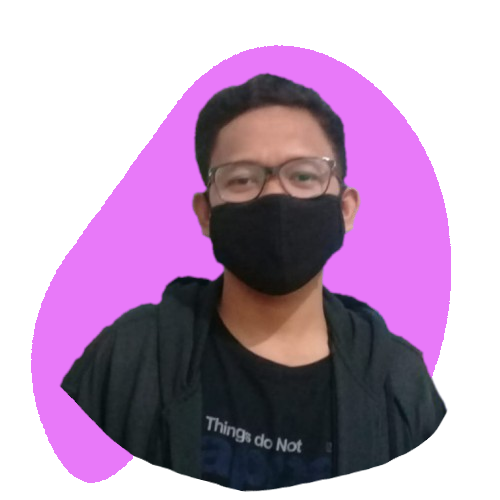
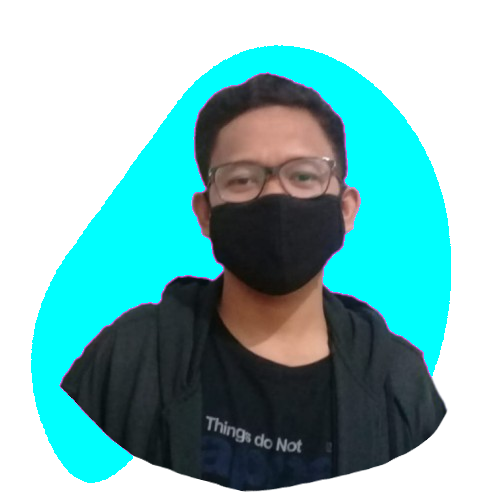
Update colorschema to cyan

Changed region(s): [[0.06, 0.09, 0.9, 0.99]]

diff --git a/_layouts/landing_page.html b/_layouts/landing_page.html
@@ -38,12 +38,12 @@
             <nav class="mx-auto flex max-w-7xl items-center justify-between p-4 lg:px-8" aria-label="Global">
                 <div class="flex lg:flex-1">
                     <a href="#" class="px-4">
-                        <span class="font-bold text-fuchsia-800">{{ page.my_name }}</span>
+                        <span class="font-bold text-cyan-800">{{ page.my_name }}</span>
                     </a>
                 </div>
 
                 <div class="flex lg:hidden">
-                    <button id="hamburger" type="button" class="inline-flex items-center justify-center rounded-md px-4 text-fuchsia-400">
+                    <button id="hamburger" type="button" class="inline-flex items-center justify-center rounded-md px-4 text-cyan-400">
                         <svg class="size-6" fill="none" viewBox="0 0 24 24" stroke-width="1.5" stroke="currentColor" aria-hidden="true">
                             <path stroke-linecap="round" stroke-linejoin="round" d="M3.75 6.75h16.5M3.75 12h16.5m-16.5 5.25h16.5" />
                         </svg>
@@ -51,9 +51,9 @@
                 </div>
 
                 <div class="hidden lg:flex lg:gap-x-12">
-                    <a href="#home" class="text-sm font-semibold text-fuchsia-800">Home</a>
-                    <a href="#about" class="text-sm font-semibold text-fuchsia-800">About</a>
-                    <a href="#posts" class="text-sm font-semibold text-fuchsia-800">My Posts</a>
+                    <a href="#home" class="text-sm font-semibold text-cyan-800">Home</a>
+                    <a href="#about" class="text-sm font-semibold text-cyan-800">About</a>
+                    <a href="#posts" class="text-sm font-semibold text-cyan-800">My Posts</a>
                 </div>
             </nav>
     
@@ -62,10 +62,10 @@
                 <div class="absolute inset-y-0 w-full overflow-y-auto p-4 sm:ring-1 sm:ring-gray-900/10 mx-auto justify-between items-center">
                     <div class="flex items-center justify-between">
                         <a href="#" class="px-4">
-                            <span class="font-bold text-fuchsia-800">{{ page.my_name }}</span>
+                            <span class="font-bold text-cyan-800">{{ page.my_name }}</span>
                         </a>
 
-                        <button id="close-menu" type="button" class="rounded-md px-4 text-fuchsia-400">
+                        <button id="close-menu" type="button" class="rounded-md px-4 text-cyan-400">
                             <svg class="size-6" fill="none" viewBox="0 0 24 24" stroke-width="1.5" stroke="currentColor" aria-hidden="true">
                                 <path stroke-linecap="round" stroke-linejoin="round" d="M6 18 18 6M6 6l12 12" />
                             </svg>
@@ -73,9 +73,9 @@
                     </div>
 
                     <div class="mt-6 text-center">
-                        <a href="#home" class="block px-3 py-2 text-base font-semibold text-fuchsia-800 hover:bg-fuchsia-400">Home</a>
-                        <a href="#about" class="block px-3 py-2 text-base font-semibold text-fuchsia-800 hover:bg-fuchsia-400">About</a>
-                        <a href="#posts" class="block px-3 py-2 text-base font-semibold text-fuchsia-800 hover:bg-fuchsia-400">My Posts</a>
+                        <a href="#home" class="block px-3 py-2 text-base font-semibold text-cyan-800 hover:bg-cyan-400">Home</a>
+                        <a href="#about" class="block px-3 py-2 text-base font-semibold text-cyan-800 hover:bg-cyan-400">About</a>
+                        <a href="#posts" class="block px-3 py-2 text-base font-semibold text-cyan-800 hover:bg-cyan-400">My Posts</a>
                     </div>
                 </div>
             </div>
@@ -87,16 +87,16 @@
                 <div class="container mx-auto px-8">
                     <div class="flex flex-wrap">
                         <div class="w-full md:w-1/2 lg:w-auto self-center px-4">
-                            <h1 class="text-base font-semibold text-fuchsia-400">Hi There!, I'm <span class="block font-bold mt-1 text-2xl md:text-4xl lg:text-4xl text-fuchsia-800">{{ page.my_name }}</span></h1>
+                            <h1 class="text-base font-semibold text-cyan-400">Hi There!, I'm <span class="block font-bold mt-1 text-2xl md:text-4xl lg:text-4xl text-cyan-800">{{ page.my_name }}</span></h1>
                             
-                            <h2 class="font-medium text-fuchsia-600 text-lg">Software Engineering</h2>
+                            <h2 class="font-medium text-cyan-600 text-lg">Software Engineering</h2>
                             
-                            <p class="font-medium text-fuchsia-400 my-5">
+                            <p class="font-medium text-cyan-400 my-5">
                                 Programming is the art of telling another human being what one wants the computer to do.
-                                <span class="block text-fuchsia-600">- Donald Ervin Knuth</span>
+                                <span class="block text-cyan-600">- Donald Ervin Knuth</span>
                             </p>
 
-                            <a class="text-base font-semibold text-white bg-fuchsia-400 py-3 px-8 rounded-full hover:shadow-lg hover:opacity-80 transition-duration-300 ease-in-out" href="#footer">
+                            <a class="text-base font-semibold text-white bg-cyan-400 py-3 px-8 rounded-full hover:shadow-lg hover:opacity-80 transition-duration-300 ease-in-out" href="#footer">
                                 Let's Talk
                             </a>
                         </div>
@@ -114,55 +114,55 @@
                 <div class="container mx-auto px-8">
                     <div class="flex flex-wrap">
                         <div class="w-full px-4 mb-2">
-                            <h4 class="font-bold text-fuchsia-400 text-lg">About Me</h4>
-                            <h2 class="font-bold text-fuchsia-800 my-2 text-2xl md:text-3xl lg:text-3xl">Mengenal saya lebih dekat</h2>
+                            <h4 class="font-bold text-cyan-400 text-lg">About Me</h4>
+                            <h2 class="font-bold text-cyan-800 my-2 text-2xl md:text-3xl lg:text-3xl">Mengenal saya lebih dekat</h2>
                             <p class="font-medium text-base text-slate-600">Hi everyone! Saya
-                                <span class="text-fuchsia-600 font-bold">{{ page.my_name }}</span>, seorang yang gemar 
-                                <span class="text-fuchsia-600 font-bold">Programming</span> yang berdomisili di 
-                                <span class="text-fuchsia-600 font-bold">Kota Tangerang</span>. Saya adalah salah satu lulusan 
-                                <span class="text-fuchsia-600 font-bold">S1 - Teknik Informatika</span> dengan konsentrasi 
-                                <span class="text-fuchsia-600 font-bold">Software Engineering</span> dari 
-                                <span class="text-fuchsia-600 font-bold">Universitas Raharja</span>. Saya mulai menyukai 
-                                <span class="text-fuchsia-600 font-bold">Programming</span> dari SMK yang berawal dari rasa penasaran dengan sistem operasi 
-                                <span class="text-fuchsia-600 font-bold">Linux dan Open Source</span>, yang mana kita dapat mengubah sourcenya sesuka hati. Sejak itulah saya mulai menyukai semua hal yang berkaitan dengan 
-                                <span class="text-fuchsia-600 font-bold">Source Code</span> dan mulai mempelajari 
-                                <span class="text-fuchsia-600 font-bold">Programming</span>.</p>
+                                <span class="text-cyan-600 font-bold">{{ page.my_name }}</span>, seorang yang gemar 
+                                <span class="text-cyan-600 font-bold">Programming</span> yang berdomisili di 
+                                <span class="text-cyan-600 font-bold">Kota Tangerang</span>. Saya adalah salah satu lulusan 
+                                <span class="text-cyan-600 font-bold">S1 - Teknik Informatika</span> dengan konsentrasi 
+                                <span class="text-cyan-600 font-bold">Software Engineering</span> dari 
+                                <span class="text-cyan-600 font-bold">Universitas Raharja</span>. Saya mulai menyukai 
+                                <span class="text-cyan-600 font-bold">Programming</span> dari SMK yang berawal dari rasa penasaran dengan sistem operasi 
+                                <span class="text-cyan-600 font-bold">Linux dan Open Source</span>, yang mana kita dapat mengubah sourcenya sesuka hati. Sejak itulah saya mulai menyukai semua hal yang berkaitan dengan 
+                                <span class="text-cyan-600 font-bold">Source Code</span> dan mulai mempelajari 
+                                <span class="text-cyan-600 font-bold">Programming</span>.</p>
                         </div> 
   
                         <div class="w-full px-4">
-                            <h2 class="font-bold text-fuchsia-800 my-2 text-2xl md:text-3xl lg:text-3xl">Apa yang saya pelajari?</h2>
+                            <h2 class="font-bold text-cyan-800 my-2 text-2xl md:text-3xl lg:text-3xl">Apa yang saya pelajari?</h2>
                             <p class="font-medium text-base text-slate-600">Perjalanan 
-                            <span class="text-fuchsia-600 font-bold">Programming</span> saya dimulai dari mempelajari 
-                            <span class="text-fuchsia-600 font-bold">Linux, Open Source, dan Shellscript</span> karena linux dibangun salah satunya dengan shell dan untuk keperluan ricing linux jadi saya mempelajarinya. Lalu bahasa pemrograman yang saya pelajari adalah  
-                            <span class="text-fuchsia-600 font-bold">C++</span>, kemudian saya menemukan 
-                            <span class="text-fuchsia-600 font-bold">Python</span> yang katanya sourcenya lebih simple, sederhana, mudah dibaca dan dipahami. Lanjut saya belajar 
-                            <span class="text-fuchsia-600 font-bold">Object Oriented Programming, Library, dan Framework</span> seperti 
-                            <span class="text-fuchsia-600 font-bold">Django</span> sebagai framework untuk web backend dan 
-                            <span class="text-fuchsia-600 font-bold">Kivy</span> yaitu library untuk membuat aplikasi desktop berbasis GUI. Saya juga mempelajari 
-                            <span class="text-fuchsia-600 font-bold">Version Control System</span> yaitu 
-                            <span class="text-fuchsia-600 font-bold">Git dan Github</span> untuk mengelola source, selain itu saya juga mempelajari 
-                            <span class="text-fuchsia-600 font-bold">Virtualization</span> seperti 
-                            <span class="text-fuchsia-600 font-bold">Docker</span> dengan memanfaatkan container untuk keperluan open source. Sampai dimana saya lebih fokus untuk mempelajari terkait
-                            <span class="text-fuchsia-600 font-bold">Web Development</span> seperti 
-                            <span class="text-fuchsia-600 font-bold">HTML, CSS, Javascript dan PHP</span>. Setelah itu saya mempelajari beberapa framework dan database management system seperti 
-                            <span class="text-fuchsia-600 font-bold">NodeJS, Laravel, VueJS, Mysql, MariaDB, Bootstrap dan TailwindCSS</span>. Saat dikampus saya juga mempelajari 
-                            <span class="text-fuchsia-600 font-bold">Java, Assembler dan Visual Basic</span>.</p>
+                            <span class="text-cyan-600 font-bold">Programming</span> saya dimulai dari mempelajari 
+                            <span class="text-cyan-600 font-bold">Linux, Open Source, dan Shellscript</span> karena linux dibangun salah satunya dengan shell dan untuk keperluan ricing linux jadi saya mempelajarinya. Lalu bahasa pemrograman yang saya pelajari adalah  
+                            <span class="text-cyan-600 font-bold">C++</span>, kemudian saya menemukan 
+                            <span class="text-cyan-600 font-bold">Python</span> yang katanya sourcenya lebih simple, sederhana, mudah dibaca dan dipahami. Lanjut saya belajar 
+                            <span class="text-cyan-600 font-bold">Object Oriented Programming, Library, dan Framework</span> seperti 
+                            <span class="text-cyan-600 font-bold">Django</span> sebagai framework untuk web backend dan 
+                            <span class="text-cyan-600 font-bold">Kivy</span> yaitu library untuk membuat aplikasi desktop berbasis GUI. Saya juga mempelajari 
+                            <span class="text-cyan-600 font-bold">Version Control System</span> yaitu 
+                            <span class="text-cyan-600 font-bold">Git dan Github</span> untuk mengelola source, selain itu saya juga mempelajari 
+                            <span class="text-cyan-600 font-bold">Virtualization</span> seperti 
+                            <span class="text-cyan-600 font-bold">Docker</span> dengan memanfaatkan container untuk keperluan open source. Sampai dimana saya lebih fokus untuk mempelajari terkait
+                            <span class="text-cyan-600 font-bold">Web Development</span> seperti 
+                            <span class="text-cyan-600 font-bold">HTML, CSS, Javascript dan PHP</span>. Setelah itu saya mempelajari beberapa framework dan database management system seperti 
+                            <span class="text-cyan-600 font-bold">NodeJS, Laravel, VueJS, Mysql, MariaDB, Bootstrap dan TailwindCSS</span>. Saat dikampus saya juga mempelajari 
+                            <span class="text-cyan-600 font-bold">Java, Assembler dan Visual Basic</span>.</p>
                         </div> 
   
                         <div class="flex items-center px-4 mt-4">
-                            <a class="w-9 h-9 mr-3 rounded-full flex justify-center items-center border border-fuchsia-600 text-fuchsia-600 hover:bg-fuchsia-600 hover:text-white" href="https://linkedin.com/in/ade-arya-bimantara">
+                            <a class="w-9 h-9 mr-3 rounded-full flex justify-center items-center border border-cyan-600 text-cyan-600 hover:bg-cyan-600 hover:text-white" href="https://linkedin.com/in/ade-arya-bimantara">
                                 <svg role="img" width="20" class="fill-current" viewBox="0 0 24 24" xmlns="http://www.w3.org/2000/svg"><title>INSPIRE</title><path d="M0 0v24h24V0H0zm3.873 3.6875c1.0359-.0008 1.8758.8391 1.875 1.875-.0003 1.035-.8399 1.8738-1.875 1.873C2.8387 7.4352 2.0003 6.5968 2 5.5625c-.0008-1.035.838-1.8747 1.873-1.875zm4.4903.5078h3.5312l6.7344 10.8125h.045V4.1953H22v16.1172h-3.5469l-6.7168-10.791h-.0468v10.791H8.3633V4.1953zm-6.123 4.7871s.013.0041 3.3886 0v11.2754H2.2402V8.9824z"/></svg> 
                             </a>
    
-                            <a class="w-9 h-9 mr-3 rounded-full flex justify-center items-center border border-fuchsia-600 text-fuchsia-600 hover:bg-fuchsia-600 hover:text-white" href="https://instagram.com/adearyabmtra">
+                            <a class="w-9 h-9 mr-3 rounded-full flex justify-center items-center border border-cyan-600 text-cyan-600 hover:bg-cyan-600 hover:text-white" href="https://instagram.com/adearyabmtra">
                                 <svg role="img" width="20" class="fill-current" viewBox="0 0 24 24" xmlns="http://www.w3.org/2000/svg"><title>Instagram</title><path d="M7.0301.084c-1.2768.0602-2.1487.264-2.911.5634-.7888.3075-1.4575.72-2.1228 1.3877-.6652.6677-1.075 1.3368-1.3802 2.127-.2954.7638-.4956 1.6365-.552 2.914-.0564 1.2775-.0689 1.6882-.0626 4.947.0062 3.2586.0206 3.6671.0825 4.9473.061 1.2765.264 2.1482.5635 2.9107.308.7889.72 1.4573 1.388 2.1228.6679.6655 1.3365 1.0743 2.1285 1.38.7632.295 1.6361.4961 2.9134.552 1.2773.056 1.6884.069 4.9462.0627 3.2578-.0062 3.668-.0207 4.9478-.0814 1.28-.0607 2.147-.2652 2.9098-.5633.7889-.3086 1.4578-.72 2.1228-1.3881.665-.6682 1.0745-1.3378 1.3795-2.1284.2957-.7632.4966-1.636.552-2.9124.056-1.2809.0692-1.6898.063-4.948-.0063-3.2583-.021-3.6668-.0817-4.9465-.0607-1.2797-.264-2.1487-.5633-2.9117-.3084-.7889-.72-1.4568-1.3876-2.1228C21.2982 1.33 20.628.9208 19.8378.6165 19.074.321 18.2017.1197 16.9244.0645 15.6471.0093 15.236-.005 11.977.0014 8.718.0076 8.31.0215 7.0301.0839m.1402 21.6932c-1.17-.0509-1.8053-.2453-2.2287-.408-.5606-.216-.96-.4771-1.3819-.895-.422-.4178-.6811-.8186-.9-1.378-.1644-.4234-.3624-1.058-.4171-2.228-.0595-1.2645-.072-1.6442-.079-4.848-.007-3.2037.0053-3.583.0607-4.848.05-1.169.2456-1.805.408-2.2282.216-.5613.4762-.96.895-1.3816.4188-.4217.8184-.6814 1.3783-.9003.423-.1651 1.0575-.3614 2.227-.4171 1.2655-.06 1.6447-.072 4.848-.079 3.2033-.007 3.5835.005 4.8495.0608 1.169.0508 1.8053.2445 2.228.408.5608.216.96.4754 1.3816.895.4217.4194.6816.8176.9005 1.3787.1653.4217.3617 1.056.4169 2.2263.0602 1.2655.0739 1.645.0796 4.848.0058 3.203-.0055 3.5834-.061 4.848-.051 1.17-.245 1.8055-.408 2.2294-.216.5604-.4763.96-.8954 1.3814-.419.4215-.8181.6811-1.3783.9-.4224.1649-1.0577.3617-2.2262.4174-1.2656.0595-1.6448.072-4.8493.079-3.2045.007-3.5825-.006-4.848-.0608M16.953 5.5864A1.44 1.44 0 1 0 18.39 4.144a1.44 1.44 0 0 0-1.437 1.4424M5.8385 12.012c.0067 3.4032 2.7706 6.1557 6.173 6.1493 3.4026-.0065 6.157-2.7701 6.1506-6.1733-.0065-3.4032-2.771-6.1565-6.174-6.1498-3.403.0067-6.156 2.771-6.1496 6.1738M8 12.0077a4 4 0 1 1 4.008 3.9921A3.9996 3.9996 0 0 1 8 12.0077"/></svg>
                             </a>
      
-                            <a class="w-9 h-9 mr-3 rounded-full flex justify-center items-center border border-fuchsia-600 text-fuchsia-600 hover:bg-fuchsia-600 hover:text-white" href="https://t.me/adearyabimantara">
+                            <a class="w-9 h-9 mr-3 rounded-full flex justify-center items-center border border-cyan-600 text-cyan-600 hover:bg-cyan-600 hover:text-white" href="https://t.me/adearyabimantara">
                                 <svg role="img" width="20" class="fill-current" viewBox="0 0 24 24" xmlns="http://www.w3.org/2000/svg"><title>Telegram</title><path d="M11.944 0A12 12 0 0 0 0 12a12 12 0 0 0 12 12 12 12 0 0 0 12-12A12 12 0 0 0 12 0a12 12 0 0 0-.056 0zm4.962 7.224c.1-.002.321.023.465.14a.506.506 0 0 1 .171.325c.016.093.036.306.02.472-.18 1.898-.962 6.502-1.36 8.627-.168.9-.499 1.201-.82 1.23-.696.065-1.225-.46-1.9-.902-1.056-.693-1.653-1.124-2.678-1.8-1.185-.78-.417-1.21.258-1.91.177-.184 3.247-2.977 3.307-3.23.007-.032.014-.15-.056-.212s-.174-.041-.249-.024c-.106.024-1.793 1.14-5.061 3.345-.48.33-.913.49-1.302.48-.428-.008-1.252-.241-1.865-.44-.752-.245-1.349-.374-1.297-.789.027-.216.325-.437.893-.663 3.498-1.524 5.83-2.529 6.998-3.014 3.332-1.386 4.025-1.627 4.476-1.635z"/></svg>
                             </a>
      
-                            <a class="w-9 h-9 mr-3 rounded-full flex justify-center items-center border border-fuchsia-600 text-fuchsia-600 hover:bg-fuchsia-600 hover:text-white" href="https://github.com/adearya">
+                            <a class="w-9 h-9 mr-3 rounded-full flex justify-center items-center border border-cyan-600 text-cyan-600 hover:bg-cyan-600 hover:text-white" href="https://github.com/adearya">
                                 <svg role="img" width="20" class="fill-current" viewBox="0 0 24 24" xmlns="http://www.w3.org/2000/svg"><title>GitHub</title><path d="M12 .297c-6.63 0-12 5.373-12 12 0 5.303 3.438 9.8 8.205 11.385.6.113.82-.258.82-.577 0-.285-.01-1.04-.015-2.04-3.338.724-4.042-1.61-4.042-1.61C4.422 18.07 3.633 17.7 3.633 17.7c-1.087-.744.084-.729.084-.729 1.205.084 1.838 1.236 1.838 1.236 1.07 1.835 2.809 1.305 3.495.998.108-.776.417-1.305.76-1.605-2.665-.3-5.466-1.332-5.466-5.93 0-1.31.465-2.38 1.235-3.22-.135-.303-.54-1.523.105-3.176 0 0 1.005-.322 3.3 1.23.96-.267 1.98-.399 3-.405 1.02.006 2.04.138 3 .405 2.28-1.552 3.285-1.23 3.285-1.23.645 1.653.24 2.873.12 3.176.765.84 1.23 1.91 1.23 3.22 0 4.61-2.805 5.625-5.475 5.92.42.36.81 1.096.81 2.22 0 1.606-.015 2.896-.015 3.286 0 .315.21.69.825.57C20.565 22.092 24 17.592 24 12.297c0-6.627-5.373-12-12-12"/></svg>
                             </a>
                         </div> 
@@ -172,12 +172,12 @@
             <!-- Section About End -->
   
             <!-- Section Posts Start -->
-            <section id="posts" class="py-16 bg-fuchsia-100">
+            <section id="posts" class="py-16 bg-cyan-100">
                 <div class="container mx-auto px-8">
                     <div class="w-full">
                         <div class="max-w-xl mx-auto text-center mb-16">
-                            <h4 class="font-bold text-lg text-fuchsia-400 mb-2">My Posts</h4>
-                            <h2 class="font-bold text-fuchsia-800 text-3xl mb-4">Posts Terbaru</h2>
+                            <h4 class="font-bold text-lg text-cyan-400 mb-2">My Posts</h4>
+                            <h2 class="font-bold text-cyan-800 text-3xl mb-4">Posts Terbaru</h2>
                             <p class="font-medium text-md text-slate-600">Berbagai cerita, pengalaman, dan proyek yang saya kerjakan. Dari pemikiran pribadi hingga eksplorasi di dunia programming, semuanya saya bagikan di sini.</p>
                         </div>
                     </div>
@@ -187,7 +187,7 @@
                             <div class="rounded-md shadow-md overflow-hidden">
                                 <img src="https://raw.githubusercontent.com/adearya/ade-arya-portfolio/gh-pages/assets/posts/{{ post.screenshot }}.png" alt="{{ post.screenshot }}" width="w-full">
                             </div>
-                            <h3 class="font-semibold text-xl text-fuchsia-800 mt-5 mb-3">
+                            <h3 class="font-semibold text-xl text-cyan-800 mt-5 mb-3">
                                 <a href="#">{{ post.title }}</a>
                             </h3>
                             <p class="font-medium text-base text-slate-600">{{ post.description }}</p>
@@ -200,7 +200,7 @@
 
         </main>
 
-        <footer id="footer" class="bg-fuchsia-400 py-16">
+        <footer id="footer" class="bg-cyan-400 py-16">
             <div class="container mx-auto px-8">
                 <div class="flex flex-wrap">
                     <div class="w-full px-4 mb-12 text-white font-medium md:w-1/3">
@@ -214,13 +214,13 @@
                         <h3 class="font-bold text-2xl mb-2">Peran dan Keahlian</h3>
                         <ul>
                             <li>
-                                <a class="block text-base hover:text-fuchsia-400 mb-3" href="#">
+                                <a class="block text-base hover:text-cyan-400 mb-3" href="#">
                                     Software Engineering
                                 </a>
-                                <a class="block text-base hover:text-fuchsia-400 mb-3" href="#">
+                                <a class="block text-base hover:text-cyan-400 mb-3" href="#">
                                     Web Developer
                                 </a>
-                                <a class="block text-base hover:text-fuchsia-400 mb-3" href="#">
+                                <a class="block text-base hover:text-cyan-400 mb-3" href="#">
                                     Linux Enthusiast
                                 </a>
                             </li>
@@ -230,13 +230,13 @@
                         <h3 class="font-bold text-2xl mb-2">Tautan</h3>
                         <ul>
                             <li>
-                                <a class="block text-base hover:text-fuchsia-400 mb-3" href="#home">
+                                <a class="block text-base hover:text-cyan-400 mb-3" href="#home">
                                     Home 
                                 </a>
-                                <a class="block text-base hover:text-fuchsia-400 mb-3" href="#about">
+                                <a class="block text-base hover:text-cyan-400 mb-3" href="#about">
                                     About 
                                 </a>
-                                <a class="block text-base hover:text-fuchsia-400 mb-3" href="#posts">
+                                <a class="block text-base hover:text-cyan-400 mb-3" href="#posts">
                                     My Posts 
                                 </a>
                             </li>
@@ -245,19 +245,19 @@
                 </div>
                 <div class="w-full pt-10 border-t border-white">
                     <div class="flex items-center px-4 mt-4 justify-center mb-5">
-                        <a class="w-9 h-9 mr-3 rounded-full flex justify-center items-center border border-white text-white hover:bg-white hover:text-fuchsia-800" href="https://linkedin.com/in/ade-arya-bimantara">
+                        <a class="w-9 h-9 mr-3 rounded-full flex justify-center items-center border border-white text-white hover:bg-white hover:text-cyan-800" href="https://linkedin.com/in/ade-arya-bimantara">
                             <svg role="img" width="20" class="fill-current" viewBox="0 0 24 24" xmlns="http://www.w3.org/2000/svg"><title>INSPIRE</title><path d="M0 0v24h24V0H0zm3.873 3.6875c1.0359-.0008 1.8758.8391 1.875 1.875-.0003 1.035-.8399 1.8738-1.875 1.873C2.8387 7.4352 2.0003 6.5968 2 5.5625c-.0008-1.035.838-1.8747 1.873-1.875zm4.4903.5078h3.5312l6.7344 10.8125h.045V4.1953H22v16.1172h-3.5469l-6.7168-10.791h-.0468v10.791H8.3633V4.1953zm-6.123 4.7871s.013.0041 3.3886 0v11.2754H2.2402V8.9824z"/></svg> 
                         </a>
    
-                        <a class="w-9 h-9 mr-3 rounded-full flex justify-center items-center border border-white text-white hover:bg-white hover:text-fuchsia-800" href="https://instagram.com/adearyabmtra">
+                        <a class="w-9 h-9 mr-3 rounded-full flex justify-center items-center border border-white text-white hover:bg-white hover:text-cyan-800" href="https://instagram.com/adearyabmtra">
                             <svg role="img" width="20" class="fill-current" viewBox="0 0 24 24" xmlns="http://www.w3.org/2000/svg"><title>Instagram</title><path d="M7.0301.084c-1.2768.0602-2.1487.264-2.911.5634-.7888.3075-1.4575.72-2.1228 1.3877-.6652.6677-1.075 1.3368-1.3802 2.127-.2954.7638-.4956 1.6365-.552 2.914-.0564 1.2775-.0689 1.6882-.0626 4.947.0062 3.2586.0206 3.6671.0825 4.9473.061 1.2765.264 2.1482.5635 2.9107.308.7889.72 1.4573 1.388 2.1228.6679.6655 1.3365 1.0743 2.1285 1.38.7632.295 1.6361.4961 2.9134.552 1.2773.056 1.6884.069 4.9462.0627 3.2578-.0062 3.668-.0207 4.9478-.0814 1.28-.0607 2.147-.2652 2.9098-.5633.7889-.3086 1.4578-.72 2.1228-1.3881.665-.6682 1.0745-1.3378 1.3795-2.1284.2957-.7632.4966-1.636.552-2.9124.056-1.2809.0692-1.6898.063-4.948-.0063-3.2583-.021-3.6668-.0817-4.9465-.0607-1.2797-.264-2.1487-.5633-2.9117-.3084-.7889-.72-1.4568-1.3876-2.1228C21.2982 1.33 20.628.9208 19.8378.6165 19.074.321 18.2017.1197 16.9244.0645 15.6471.0093 15.236-.005 11.977.0014 8.718.0076 8.31.0215 7.0301.0839m.1402 21.6932c-1.17-.0509-1.8053-.2453-2.2287-.408-.5606-.216-.96-.4771-1.3819-.895-.422-.4178-.6811-.8186-.9-1.378-.1644-.4234-.3624-1.058-.4171-2.228-.0595-1.2645-.072-1.6442-.079-4.848-.007-3.2037.0053-3.583.0607-4.848.05-1.169.2456-1.805.408-2.2282.216-.5613.4762-.96.895-1.3816.4188-.4217.8184-.6814 1.3783-.9003.423-.1651 1.0575-.3614 2.227-.4171 1.2655-.06 1.6447-.072 4.848-.079 3.2033-.007 3.5835.005 4.8495.0608 1.169.0508 1.8053.2445 2.228.408.5608.216.96.4754 1.3816.895.4217.4194.6816.8176.9005 1.3787.1653.4217.3617 1.056.4169 2.2263.0602 1.2655.0739 1.645.0796 4.848.0058 3.203-.0055 3.5834-.061 4.848-.051 1.17-.245 1.8055-.408 2.2294-.216.5604-.4763.96-.8954 1.3814-.419.4215-.8181.6811-1.3783.9-.4224.1649-1.0577.3617-2.2262.4174-1.2656.0595-1.6448.072-4.8493.079-3.2045.007-3.5825-.006-4.848-.0608M16.953 5.5864A1.44 1.44 0 1 0 18.39 4.144a1.44 1.44 0 0 0-1.437 1.4424M5.8385 12.012c.0067 3.4032 2.7706 6.1557 6.173 6.1493 3.4026-.0065 6.157-2.7701 6.1506-6.1733-.0065-3.4032-2.771-6.1565-6.174-6.1498-3.403.0067-6.156 2.771-6.1496 6.1738M8 12.0077a4 4 0 1 1 4.008 3.9921A3.9996 3.9996 0 0 1 8 12.0077"/></svg>
                         </a>
      
-                        <a class="w-9 h-9 mr-3 rounded-full flex justify-center items-center border border-white text-white hover:bg-white hover:text-fuchsia-800" href="https://t.me/adearyabimantara">
+                        <a class="w-9 h-9 mr-3 rounded-full flex justify-center items-center border border-white text-white hover:bg-white hover:text-cyan-800" href="https://t.me/adearyabimantara">
                             <svg role="img" width="20" class="fill-current" viewBox="0 0 24 24" xmlns="http://www.w3.org/2000/svg"><title>Telegram</title><path d="M11.944 0A12 12 0 0 0 0 12a12 12 0 0 0 12 12 12 12 0 0 0 12-12A12 12 0 0 0 12 0a12 12 0 0 0-.056 0zm4.962 7.224c.1-.002.321.023.465.14a.506.506 0 0 1 .171.325c.016.093.036.306.02.472-.18 1.898-.962 6.502-1.36 8.627-.168.9-.499 1.201-.82 1.23-.696.065-1.225-.46-1.9-.902-1.056-.693-1.653-1.124-2.678-1.8-1.185-.78-.417-1.21.258-1.91.177-.184 3.247-2.977 3.307-3.23.007-.032.014-.15-.056-.212s-.174-.041-.249-.024c-.106.024-1.793 1.14-5.061 3.345-.48.33-.913.49-1.302.48-.428-.008-1.252-.241-1.865-.44-.752-.245-1.349-.374-1.297-.789.027-.216.325-.437.893-.663 3.498-1.524 5.83-2.529 6.998-3.014 3.332-1.386 4.025-1.627 4.476-1.635z"/></svg>
                         </a>
      
-                        <a class="w-9 h-9 mr-3 rounded-full flex justify-center items-center border border-white text-white hover:bg-white hover:text-fuchsia-800" href="https://github.com/adearya">
+                        <a class="w-9 h-9 mr-3 rounded-full flex justify-center items-center border border-white text-white hover:bg-white hover:text-cyan-800" href="https://github.com/adearya">
                             <svg role="img" width="20" class="fill-current" viewBox="0 0 24 24" xmlns="http://www.w3.org/2000/svg"><title>GitHub</title><path d="M12 .297c-6.63 0-12 5.373-12 12 0 5.303 3.438 9.8 8.205 11.385.6.113.82-.258.82-.577 0-.285-.01-1.04-.015-2.04-3.338.724-4.042-1.61-4.042-1.61C4.422 18.07 3.633 17.7 3.633 17.7c-1.087-.744.084-.729.084-.729 1.205.084 1.838 1.236 1.838 1.236 1.07 1.835 2.809 1.305 3.495.998.108-.776.417-1.305.76-1.605-2.665-.3-5.466-1.332-5.466-5.93 0-1.31.465-2.38 1.235-3.22-.135-.303-.54-1.523.105-3.176 0 0 1.005-.322 3.3 1.23.96-.267 1.98-.399 3-.405 1.02.006 2.04.138 3 .405 2.28-1.552 3.285-1.23 3.285-1.23.645 1.653.24 2.873.12 3.176.765.84 1.23 1.91 1.23 3.22 0 4.61-2.805 5.625-5.475 5.92.42.36.81 1.096.81 2.22 0 1.606-.015 2.896-.015 3.286 0 .315.21.69.825.57C20.565 22.092 24 17.592 24 12.297c0-6.627-5.373-12-12-12"/></svg>
                         </a>
                     </div> 
